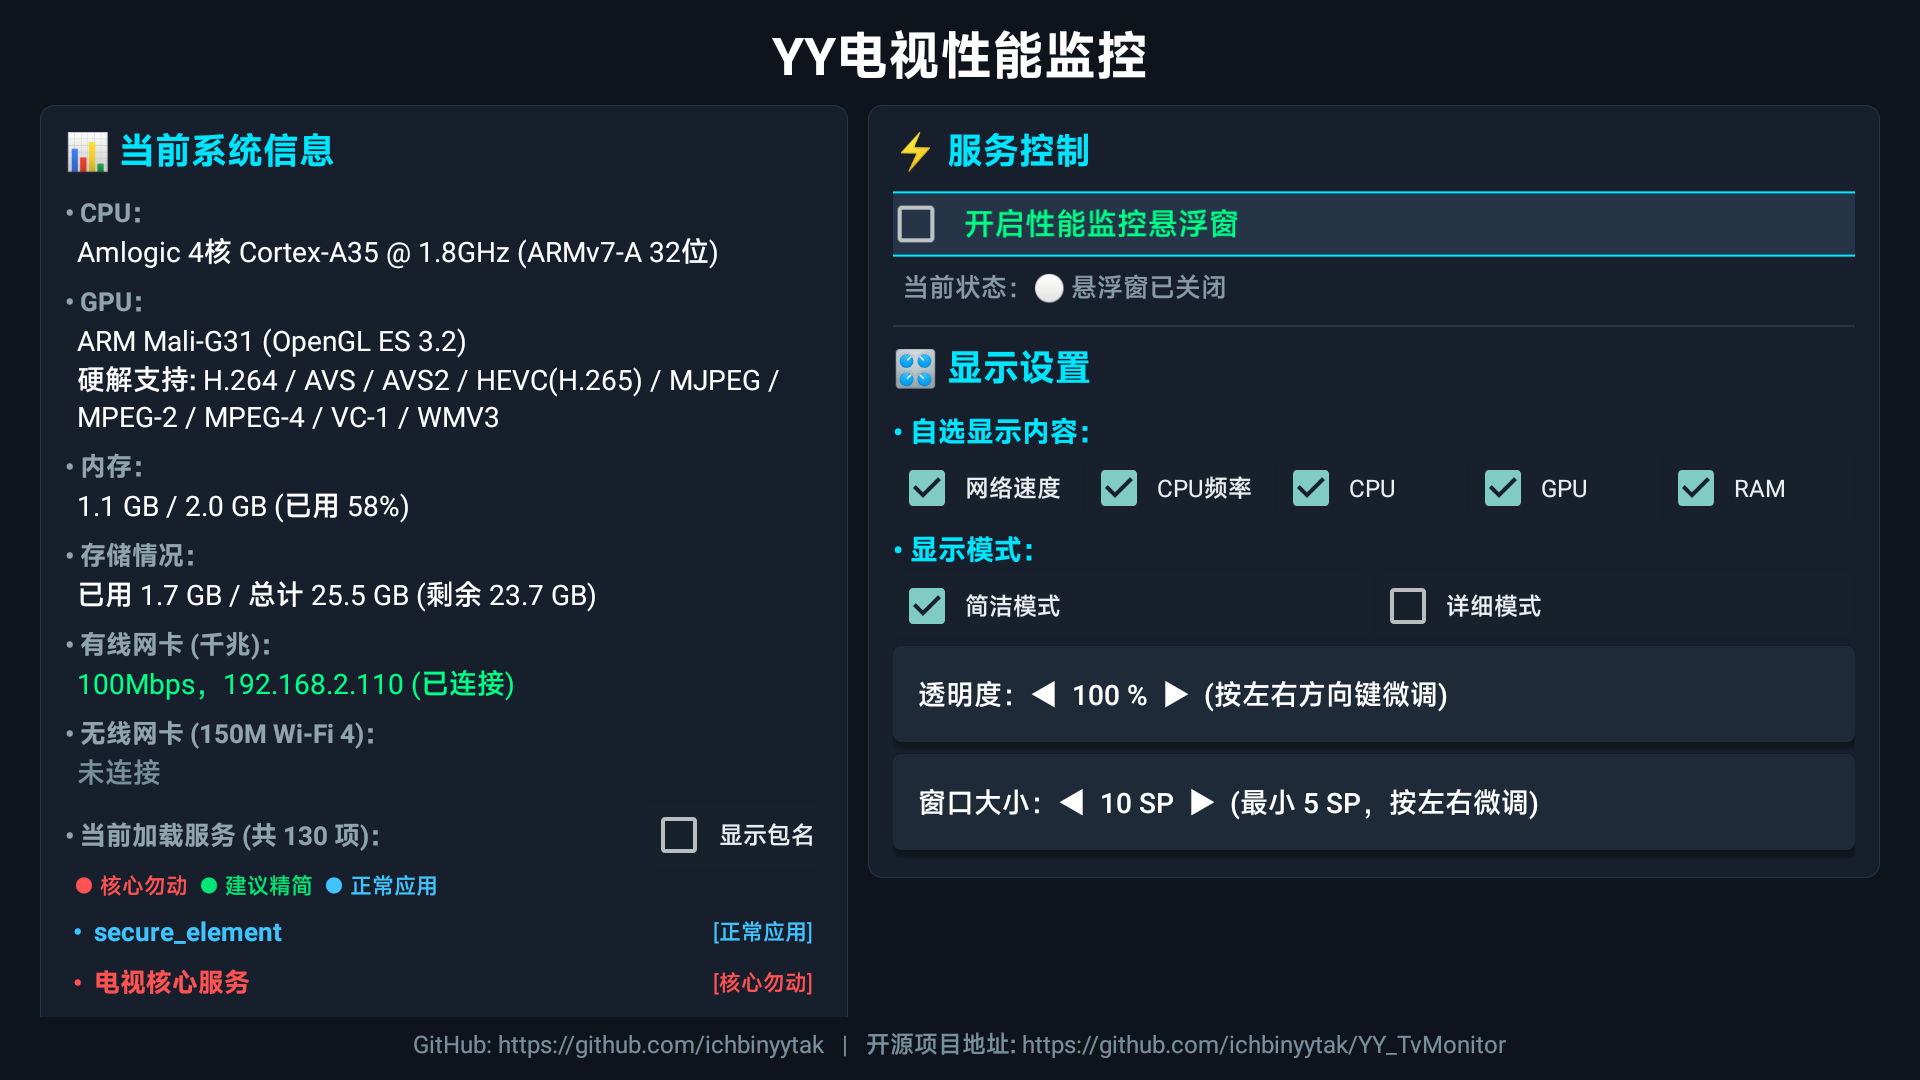
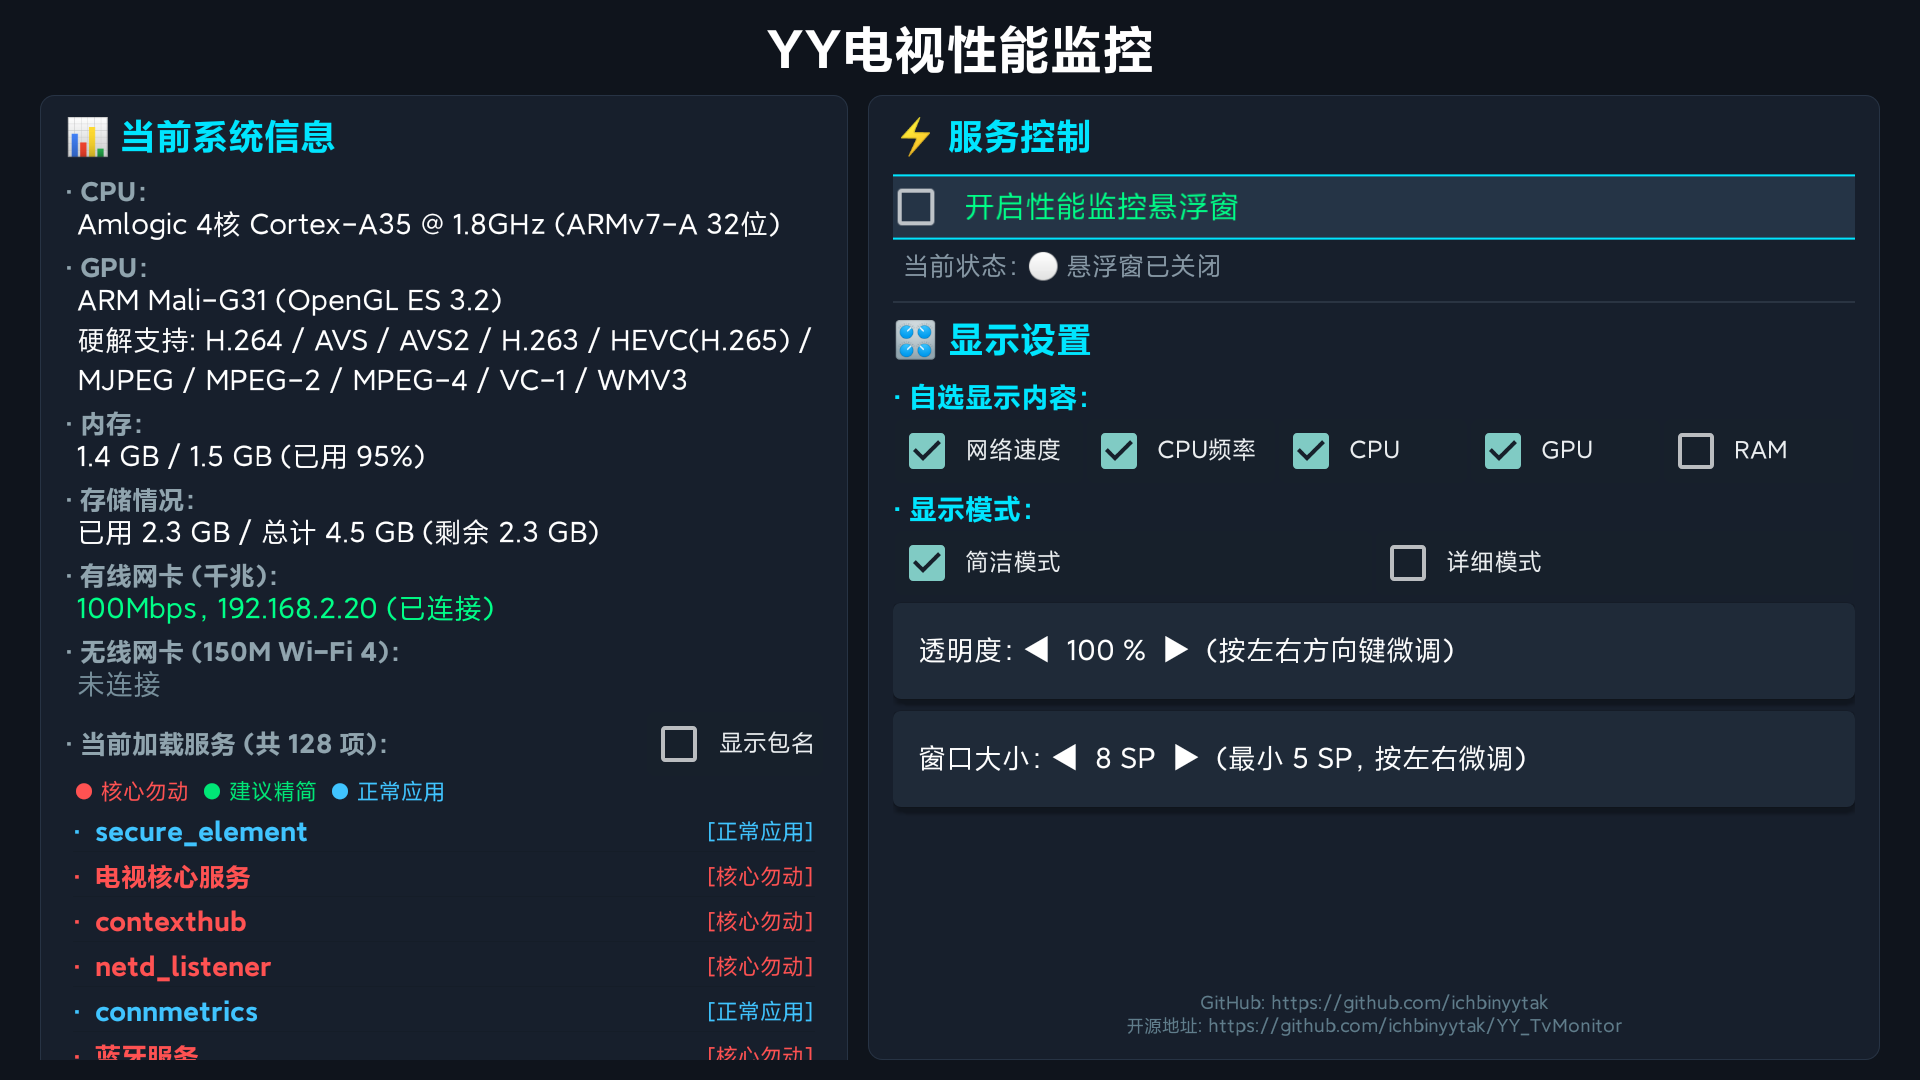
style: move github links to bottom of right panel as two small lines

diff --git a/src/com/tv/cpu/MainActivity.java b/src/com/tv/cpu/MainActivity.java
@@ -253,7 +253,7 @@ public class MainActivity extends Activity {
 
         // ====================== 右栏：开关与显示设置 (固定在右侧不动) ======================
         LinearLayout rightCard = createCardLayout();
-        LinearLayout.LayoutParams rightParams = new LinearLayout.LayoutParams(0, LinearLayout.LayoutParams.WRAP_CONTENT, 1.25f);
+        LinearLayout.LayoutParams rightParams = new LinearLayout.LayoutParams(0, LinearLayout.LayoutParams.MATCH_PARENT, 1.25f);
         rightCard.setLayoutParams(rightParams);
         mainCols.addView(rightCard);
 
@@ -498,21 +498,38 @@ public class MainActivity extends Activity {
         });
         rightCard.addView(btnSize);
 
-        // 3. 界面底部信息栏 (作者 GitHub 主页与项目开源地址)
+        // 占位 Spacer：将作者与项目信息推至右侧窗口最下方
+        View spacer = new View(this);
+        LinearLayout.LayoutParams spacerLp = new LinearLayout.LayoutParams(
+            LinearLayout.LayoutParams.MATCH_PARENT, 0, 1.0f
+        );
+        spacer.setLayoutParams(spacerLp);
+        rightCard.addView(spacer);
+
+        // 右侧窗口最底部两行信息（极小字号 9 SP）
         LinearLayout footerLayout = new LinearLayout(this);
-        footerLayout.setOrientation(LinearLayout.HORIZONTAL);
-        footerLayout.setGravity(Gravity.CENTER);
-        footerLayout.setPadding(0, 10, 0, 0);
+        footerLayout.setOrientation(LinearLayout.VERTICAL);
+        footerLayout.setGravity(Gravity.CENTER_HORIZONTAL);
+        footerLayout.setPadding(0, 10, 0, 4);
 
-        TextView tvFooter = new TextView(this);
-        tvFooter.setText("GitHub: https://github.com/ichbinyytak   |   开源项目地址: https://github.com/ichbinyytak/YY_TvMonitor");
-        tvFooter.setTextColor(Color.parseColor("#78909C"));
-        tvFooter.setTextSize(12);
-        tvFooter.setGravity(Gravity.CENTER);
-        tvFooter.setFocusable(false);
-        footerLayout.addView(tvFooter);
+        TextView tvLine1 = new TextView(this);
+        tvLine1.setText("GitHub: https://github.com/ichbinyytak");
+        tvLine1.setTextColor(Color.parseColor("#607D8B"));
+        tvLine1.setTextSize(9);
+        tvLine1.setGravity(Gravity.CENTER_HORIZONTAL);
+        tvLine1.setFocusable(false);
+        footerLayout.addView(tvLine1);
 
-        root.addView(footerLayout);
+        TextView tvLine2 = new TextView(this);
+        tvLine2.setText("开源地址: https://github.com/ichbinyytak/YY_TvMonitor");
+        tvLine2.setTextColor(Color.parseColor("#607D8B"));
+        tvLine2.setTextSize(9);
+        tvLine2.setGravity(Gravity.CENTER_HORIZONTAL);
+        tvLine2.setFocusable(false);
+        tvLine2.setPadding(0, 3, 0, 0);
+        footerLayout.addView(tvLine2);
+
+        rightCard.addView(footerLayout);
 
         setContentView(root);
 
